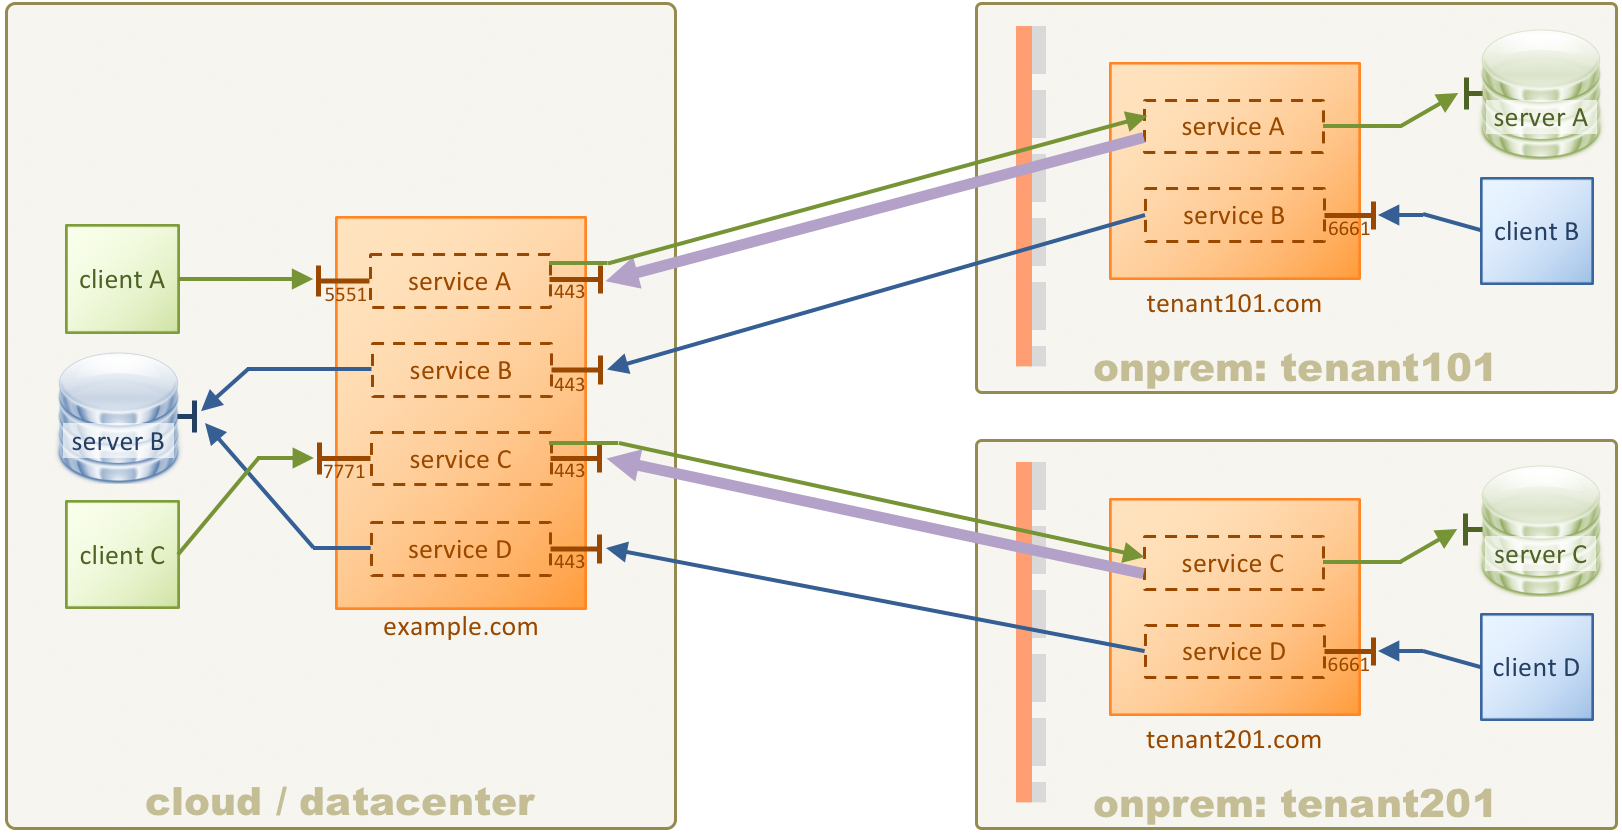
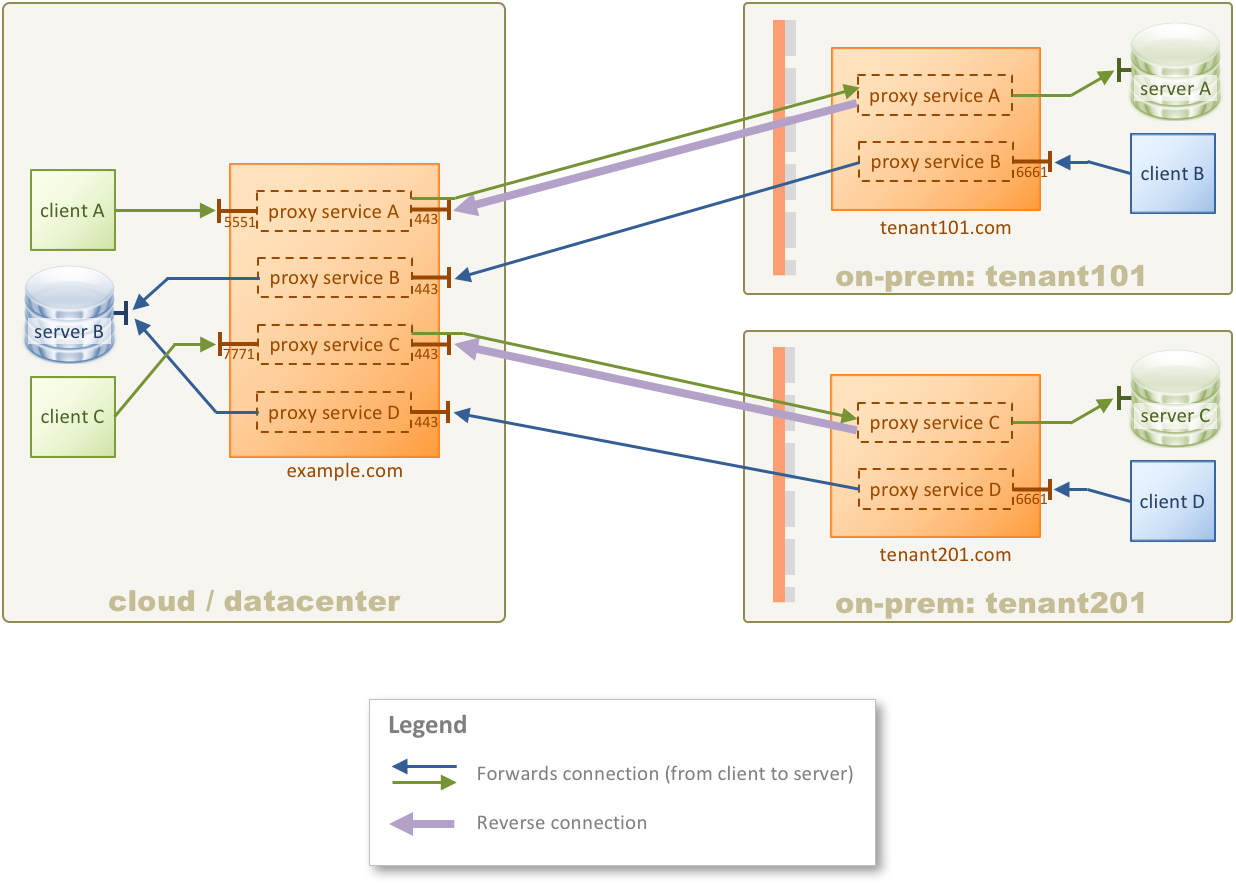
Improved images and tweaked text

diff --git a/kwic/3-multi-tenant/README.md b/kwic/3-multi-tenant/README.md
@@ -6,7 +6,7 @@ Demonstrate a multi-tenant KWIC scenario. This tutorial includes TLS/SSL.
 
 ![KWIC](img/kwic-multi-tenant.jpg)
 
-This example shows how to have a single KWIC instance in the cloud servicing multiple independent tenants. In this scenario, all connections inbound to the cloud connect to the same server, **server B**.
+This tutorial shows how to have a single KWIC instance in the cloud servicing multiple independent tenants. In this scenario, all connections inbound to the cloud connect to the same server, **server B**.
 
 ## Configuration
 
@@ -90,7 +90,9 @@ docker run -it --rm konjak/netcat 192.168.99.100 5551
 
     In the log output of the Docker Compose terminal window, the prefix on each line shows the Docker container used. You can use that to verify that the connections are all going through tenant101.
 
-2. Now test connectivity to tenant201:
+2. Now test connectivity to tenant201.
+
+    Note that for **client D**, the KWIC instance is listening on port 6661, just like tenant101. However since we are using Docker to run everything on a single host, port 6661 is already bound for tenant101. Therefore Docker has been configured to redirect port 9991 to 6661 for the tenant201 container. The KWIC configuration is still correct, and is configured for port 6661. Using port 9991 is simply a workaround that is being applied specifically for Docker here.
 
     ```bash
     # Test client C to server C
